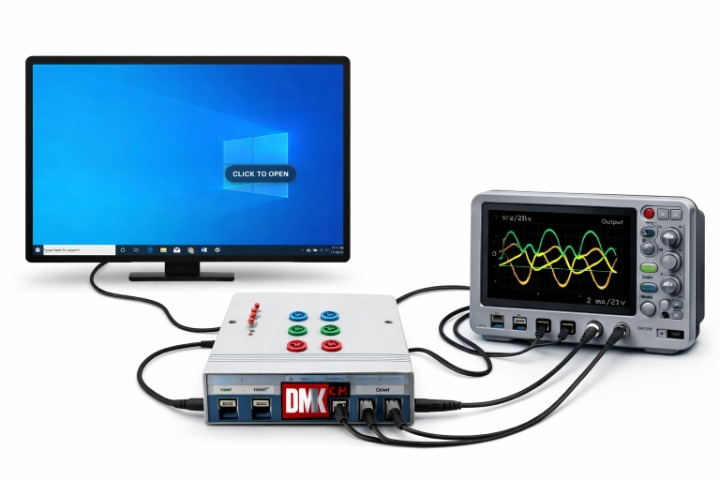
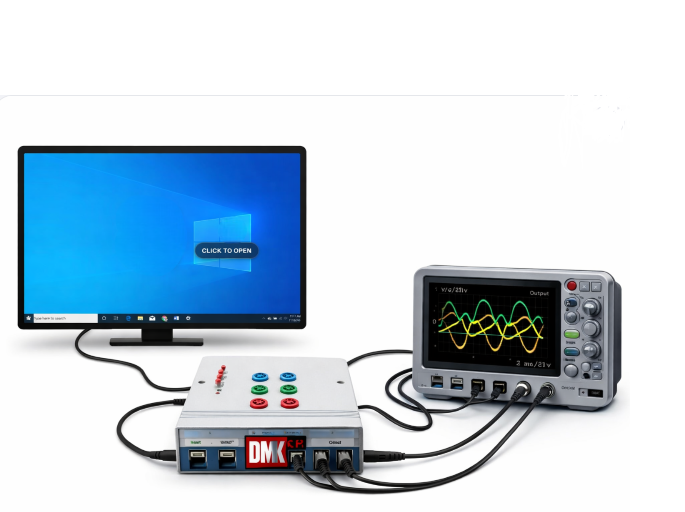
Update DMK layouts and enable sim by default
Made-with: Cursor

diff --git a/src/components/Products.jsx b/src/components/Products.jsx
@@ -466,17 +466,6 @@ export default function Products({ initialProduct = 'dmk', singleMode = false })
                       ))}
                     </ul>
                   </div>
-                  <div className="lci-problem-visual">
-                    <img
-                      src="/images/lci-problem-visual.png"
-                      alt={t('products.lci.problemImageAlt')}
-                      className="lci-problem-img"
-                      width={400}
-                      height={400}
-                      loading="lazy"
-                      decoding="async"
-                    />
-                  </div>
                 </div>
               </div>
 
@@ -502,17 +491,6 @@ export default function Products({ initialProduct = 'dmk', singleMode = false })
                       <span className="lci-shift-flow-arrow" aria-hidden />
                       <span className="lci-shift-flow-node">{t('products.lci.shiftFlowResult')}</span>
                     </div>
-                  </div>
-                  <div className="lci-shift-visual">
-                    <img
-                      src="/images/lci-solution-visual.png"
-                      alt={t('products.lci.shiftImageAlt')}
-                      className="lci-shift-img"
-                      width={400}
-                      height={400}
-                      loading="lazy"
-                      decoding="async"
-                    />
                   </div>
                 </div>
               </div>

diff --git a/src/components/ExpertiseTabVisual.jsx b/src/components/ExpertiseTabVisual.jsx
@@ -1,7 +1,6 @@
 import { useTranslation } from 'react-i18next';
 
 const BASE = (import.meta.env.BASE_URL || '/').replace(/\/?$/, '/');
-const HARDWARE_EDA_LOGOS = `${BASE}images/hardware-eda-logos.png`;
 const HARDWARE_PCB_3D = `${BASE}images/hardware-pcb-3d.png`;
 const SOFTWARE_IMG = 'https://images.pexels.com/photos/546819/pexels-photo-546819.jpeg?auto=compress&cs=tinysrgb&w=800';
 const SOFTWARE_IMG_SRCSET = 'https://images.pexels.com/photos/546819/pexels-photo-546819.jpeg?auto=compress&cs=tinysrgb&w=400 400w, https://images.pexels.com/photos/546819/pexels-photo-546819.jpeg?auto=compress&cs=tinysrgb&w=800 800w';
@@ -44,7 +43,6 @@ export default function ExpertiseTabVisual({ topicId }) {
     return (
       <div className="expertise-visual-card expertise-visual-card--image expertise-visual-card--hardware-two">
         <div className="expertise-hardware-two">
-          <img src={HARDWARE_EDA_LOGOS} alt="EDA tools: EAGLE, KiCad, Altium" className="expertise-visual-img expertise-visual-img--hardware" width="400" height="280" loading="lazy" decoding="async" />
           <img src={HARDWARE_PCB_3D} alt="3D PCB design" className="expertise-visual-img expertise-visual-img--hardware" width="400" height="280" loading="lazy" decoding="async" />
         </div>
       </div>

diff --git a/src/index.css b/src/index.css
@@ -4813,7 +4813,7 @@ section {
 }
 .dmk-hmi-scene-overlay--monitor {
     left: 3%;
-    top: 10%;
+    top: 199px;
     width: 30%;
     height: 62%;
     pointer-events: auto;
@@ -8547,13 +8547,14 @@ section {
     position: relative;
     z-index: 1;
     display: grid;
-    grid-template-columns: 1fr 1fr;
+    grid-template-columns: 1fr;
     gap: 44px;
     align-items: center;
 }
 
 .lci-shift-text {
     min-width: 0;
+    width: 100%;
 }
 
 .lci-shift-visual {
@@ -8676,7 +8677,8 @@ section {
     color: var(--text-secondary);
     line-height: 1.65;
     margin: 0 0 28px;
-    max-width: 600px;
+    width: 100%;
+    max-width: none;
 }
 .lci-shift-body p {
     margin: 0 0 1em;

diff --git a/src/components/DmkDataIntelligence.jsx b/src/components/DmkDataIntelligence.jsx
@@ -166,7 +166,7 @@ export default function DmkDataIntelligence({ variant }) {
             </div>
           </div>
           <div className="dmk-story-divider" aria-hidden><span>—</span></div>
-          {/* Step 2 — 01 DATA LOGGING */}
+          {/* Step 2 —  DATA LOGGING */}
           <div className="dmk-story-step dmk-story-step--flip dmk-story-reveal">
             <div className="dmk-story-step-text">
               <div className="dmk-story-step-meta">

diff --git a/src/simulator/SimulatorApp.tsx b/src/simulator/SimulatorApp.tsx
@@ -47,7 +47,7 @@ const App: React.FC = () => {
   const { t } = useTranslation();
   const [config, setConfig] = useState<SimulationConfig>(INITIAL_CONFIG);
   const [phaseOffset, setPhaseOffset] = useState(0); 
-  const [isRunning, setIsRunning] = useState(false);
+  const [isRunning, setIsRunning] = useState(true);
   const [currentUStar, setCurrentUStar] = useState(INITIAL_STATE.uStar);
 
   // Live values for the 3D motor (refs to avoid re-renders every frame)
